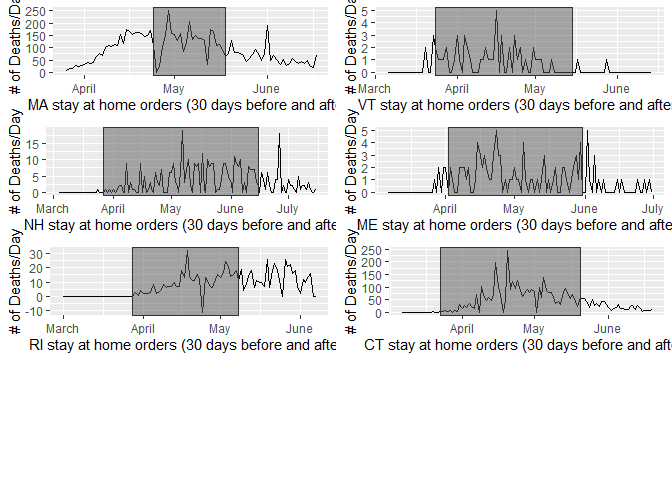
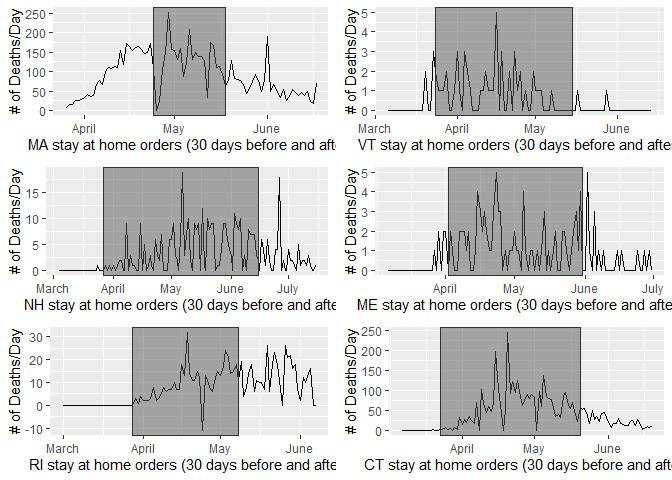
Quick change

diff --git a/mini_project2_notebook.md b/mini_project2_notebook.md
@@ -27,23 +27,95 @@ not a one for one match, but does give a good regional idea.
 
 # Demo
 
+``` r
+install.packages("pacman",repos="http://cran.us.r-project.org")
+```
+
     ## Installing package into 'C:/Users/david/Documents/R/win-library/4.0'
     ## (as 'lib' is unspecified)
 
     ## package 'pacman' successfully unpacked and MD5 sums checked
     ## 
     ## The downloaded binary packages are in
-    ##  C:\Users\david\AppData\Local\Temp\RtmpcbCz27\downloaded_packages
+    ##  C:\Users\david\AppData\Local\Temp\RtmpyafX6S\downloaded_packages
+
+``` r
+pacman::p_load(httr, jsonlite, corrplot, ggplot2, dplyr, gridExtra, install = TRUE)
+
+generate_state_chart <- function(state, stay_at_home_start, stay_at_home_end) {
+  api <- paste("api.covidtracking.com/v1/states/",c(tolower(state)),"/daily.json", sep="")
+  raw_state_data <- GET(api)
+  raw_state_text <- content(raw_state_data, "text")
+  raw_state_json <- fromJSON(raw_state_text)
+  state_data <- as.data.frame(raw_state_json)
+  
+  stay_at_home_start_date = as.Date(stay_at_home_start, "%Y-%m-%d") 
+  stay_at_home_end_date = as.Date(stay_at_home_end, "%Y-%m-%d") 
+  
+  
+  start = stay_at_home_start_date - 30
+  end = stay_at_home_end_date + 30
+  
+  rect <- data.frame(xmin=stay_at_home_start_date, xmax=stay_at_home_end_date, ymin=-Inf, ymax=Inf)
+  
+  p <- state_data %>%
+    mutate(date = as.Date(as.character(date), "%Y%m%d")) %>%
+    filter(state %in% c(state))  %>%
+    filter(as.Date(date, "%Y%m%d") > start) %>%
+    filter(as.Date(date, "%Y%m%d") <= end) %>%
+    ggplot(aes(x = date, y = deathIncrease)) + 
+    geom_line() +
+    xlab(paste(state, "stay at home orders (30 days before and after)")) + 
+    ylab("# of Deaths/Day") +
+    scale_x_date(date_breaks = "1 month",
+                 date_labels = "%B")
+  
+  return(p + geom_rect(data=rect, aes(xmin=xmin, xmax=xmax, ymin=ymin, ymax=ymax),
+                color="grey20",
+                alpha=0.5,
+                inherit.aes = FALSE))
+}
+
+massachusetts = generate_state_chart("MA", "2020-04-24", "2020-05-18")
+```
 
     ## No encoding supplied: defaulting to UTF-8.
 
-    ## No encoding supplied: defaulting to UTF-8.
-    ## No encoding supplied: defaulting to UTF-8.
-    ## No encoding supplied: defaulting to UTF-8.
-    ## No encoding supplied: defaulting to UTF-8.
+``` r
+vermont = generate_state_chart("VT", "2020-03-24", "2020-05-15")
+```
+
     ## No encoding supplied: defaulting to UTF-8.
 
-![](mini_project2_notebook_files/figure-gfm/init-1.png)<!-- -->
+``` r
+new_hampshire = generate_state_chart("NH", "2020-03-27", "2020-06-15")
+```
+
+    ## No encoding supplied: defaulting to UTF-8.
+
+``` r
+maine = generate_state_chart("ME", "2020-04-02", "2020-05-31")
+```
+
+    ## No encoding supplied: defaulting to UTF-8.
+
+``` r
+rhode_island = generate_state_chart("RI", "2020-03-28", "2020-05-08")
+```
+
+    ## No encoding supplied: defaulting to UTF-8.
+
+``` r
+connecticut = generate_state_chart("CT", "2020-03-23", "2020-05-20")
+```
+
+    ## No encoding supplied: defaulting to UTF-8.
+
+``` r
+grid.arrange(massachusetts, vermont, new_hampshire, maine, rhode_island, connecticut, ncol=2)
+```
+
+![](mini_project2_notebook_files/figure-gfm/unnamed-chunk-1-1.png)<!-- -->
 
 # Improvements
 
